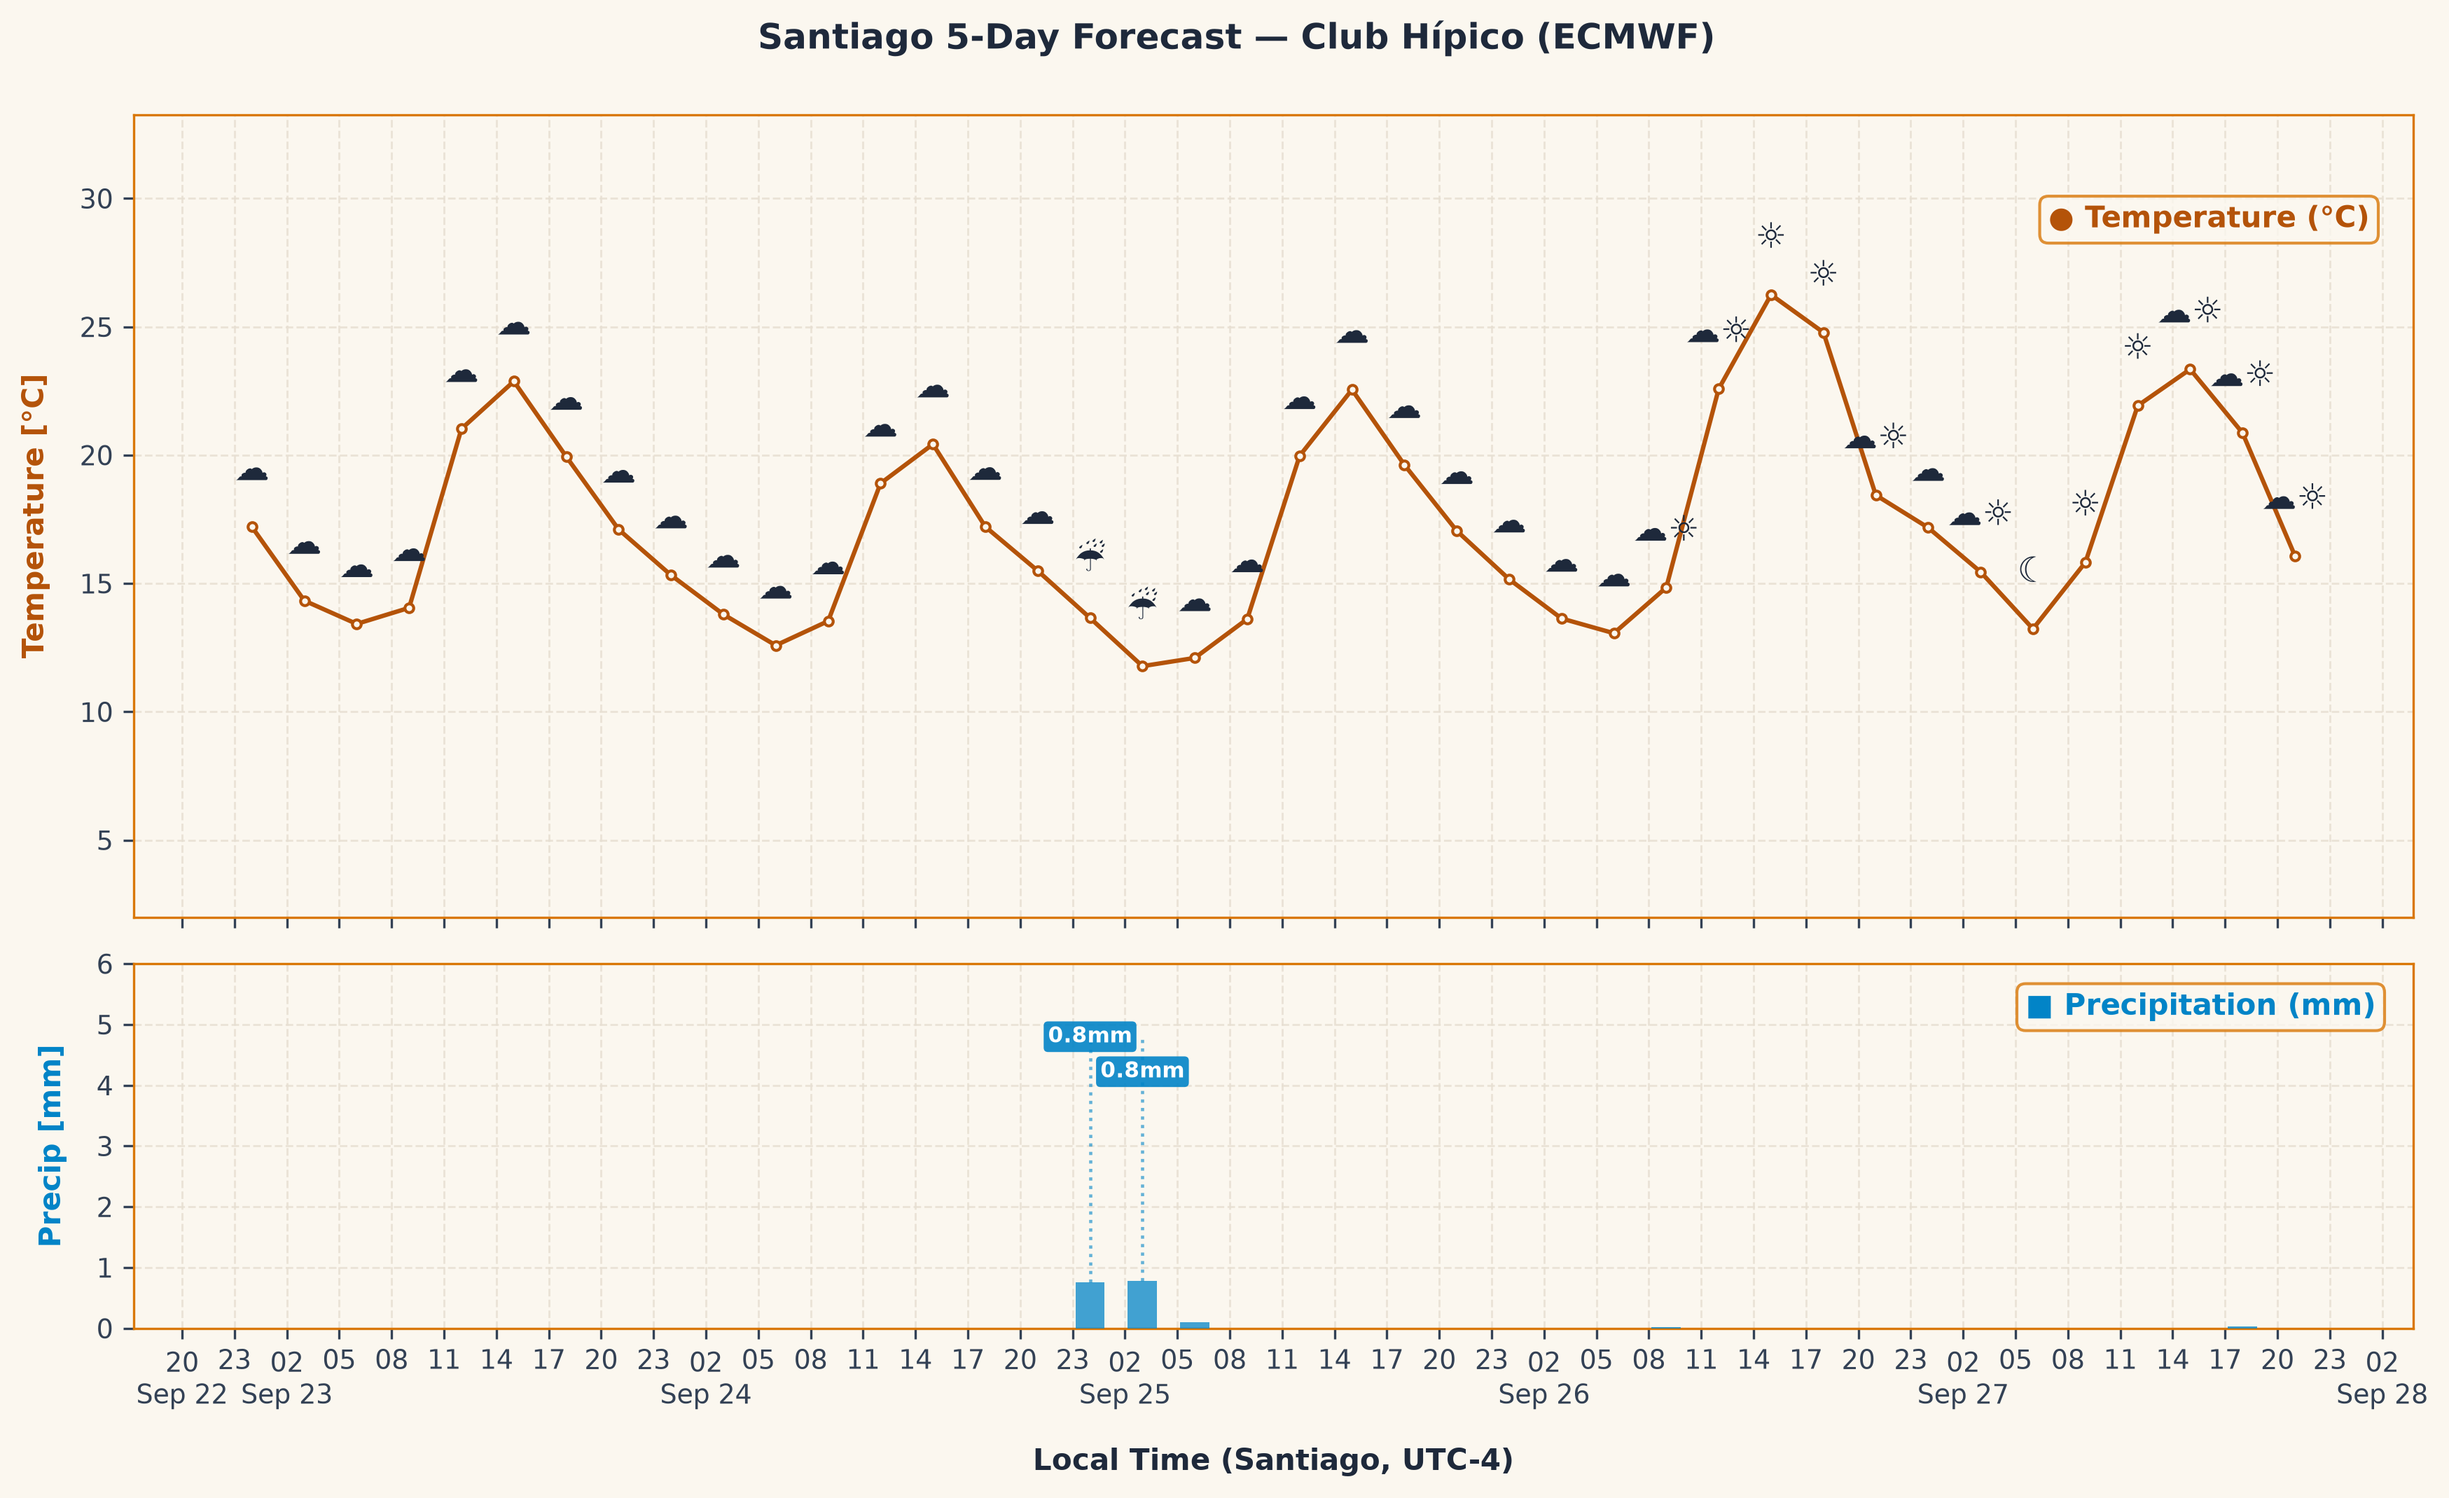
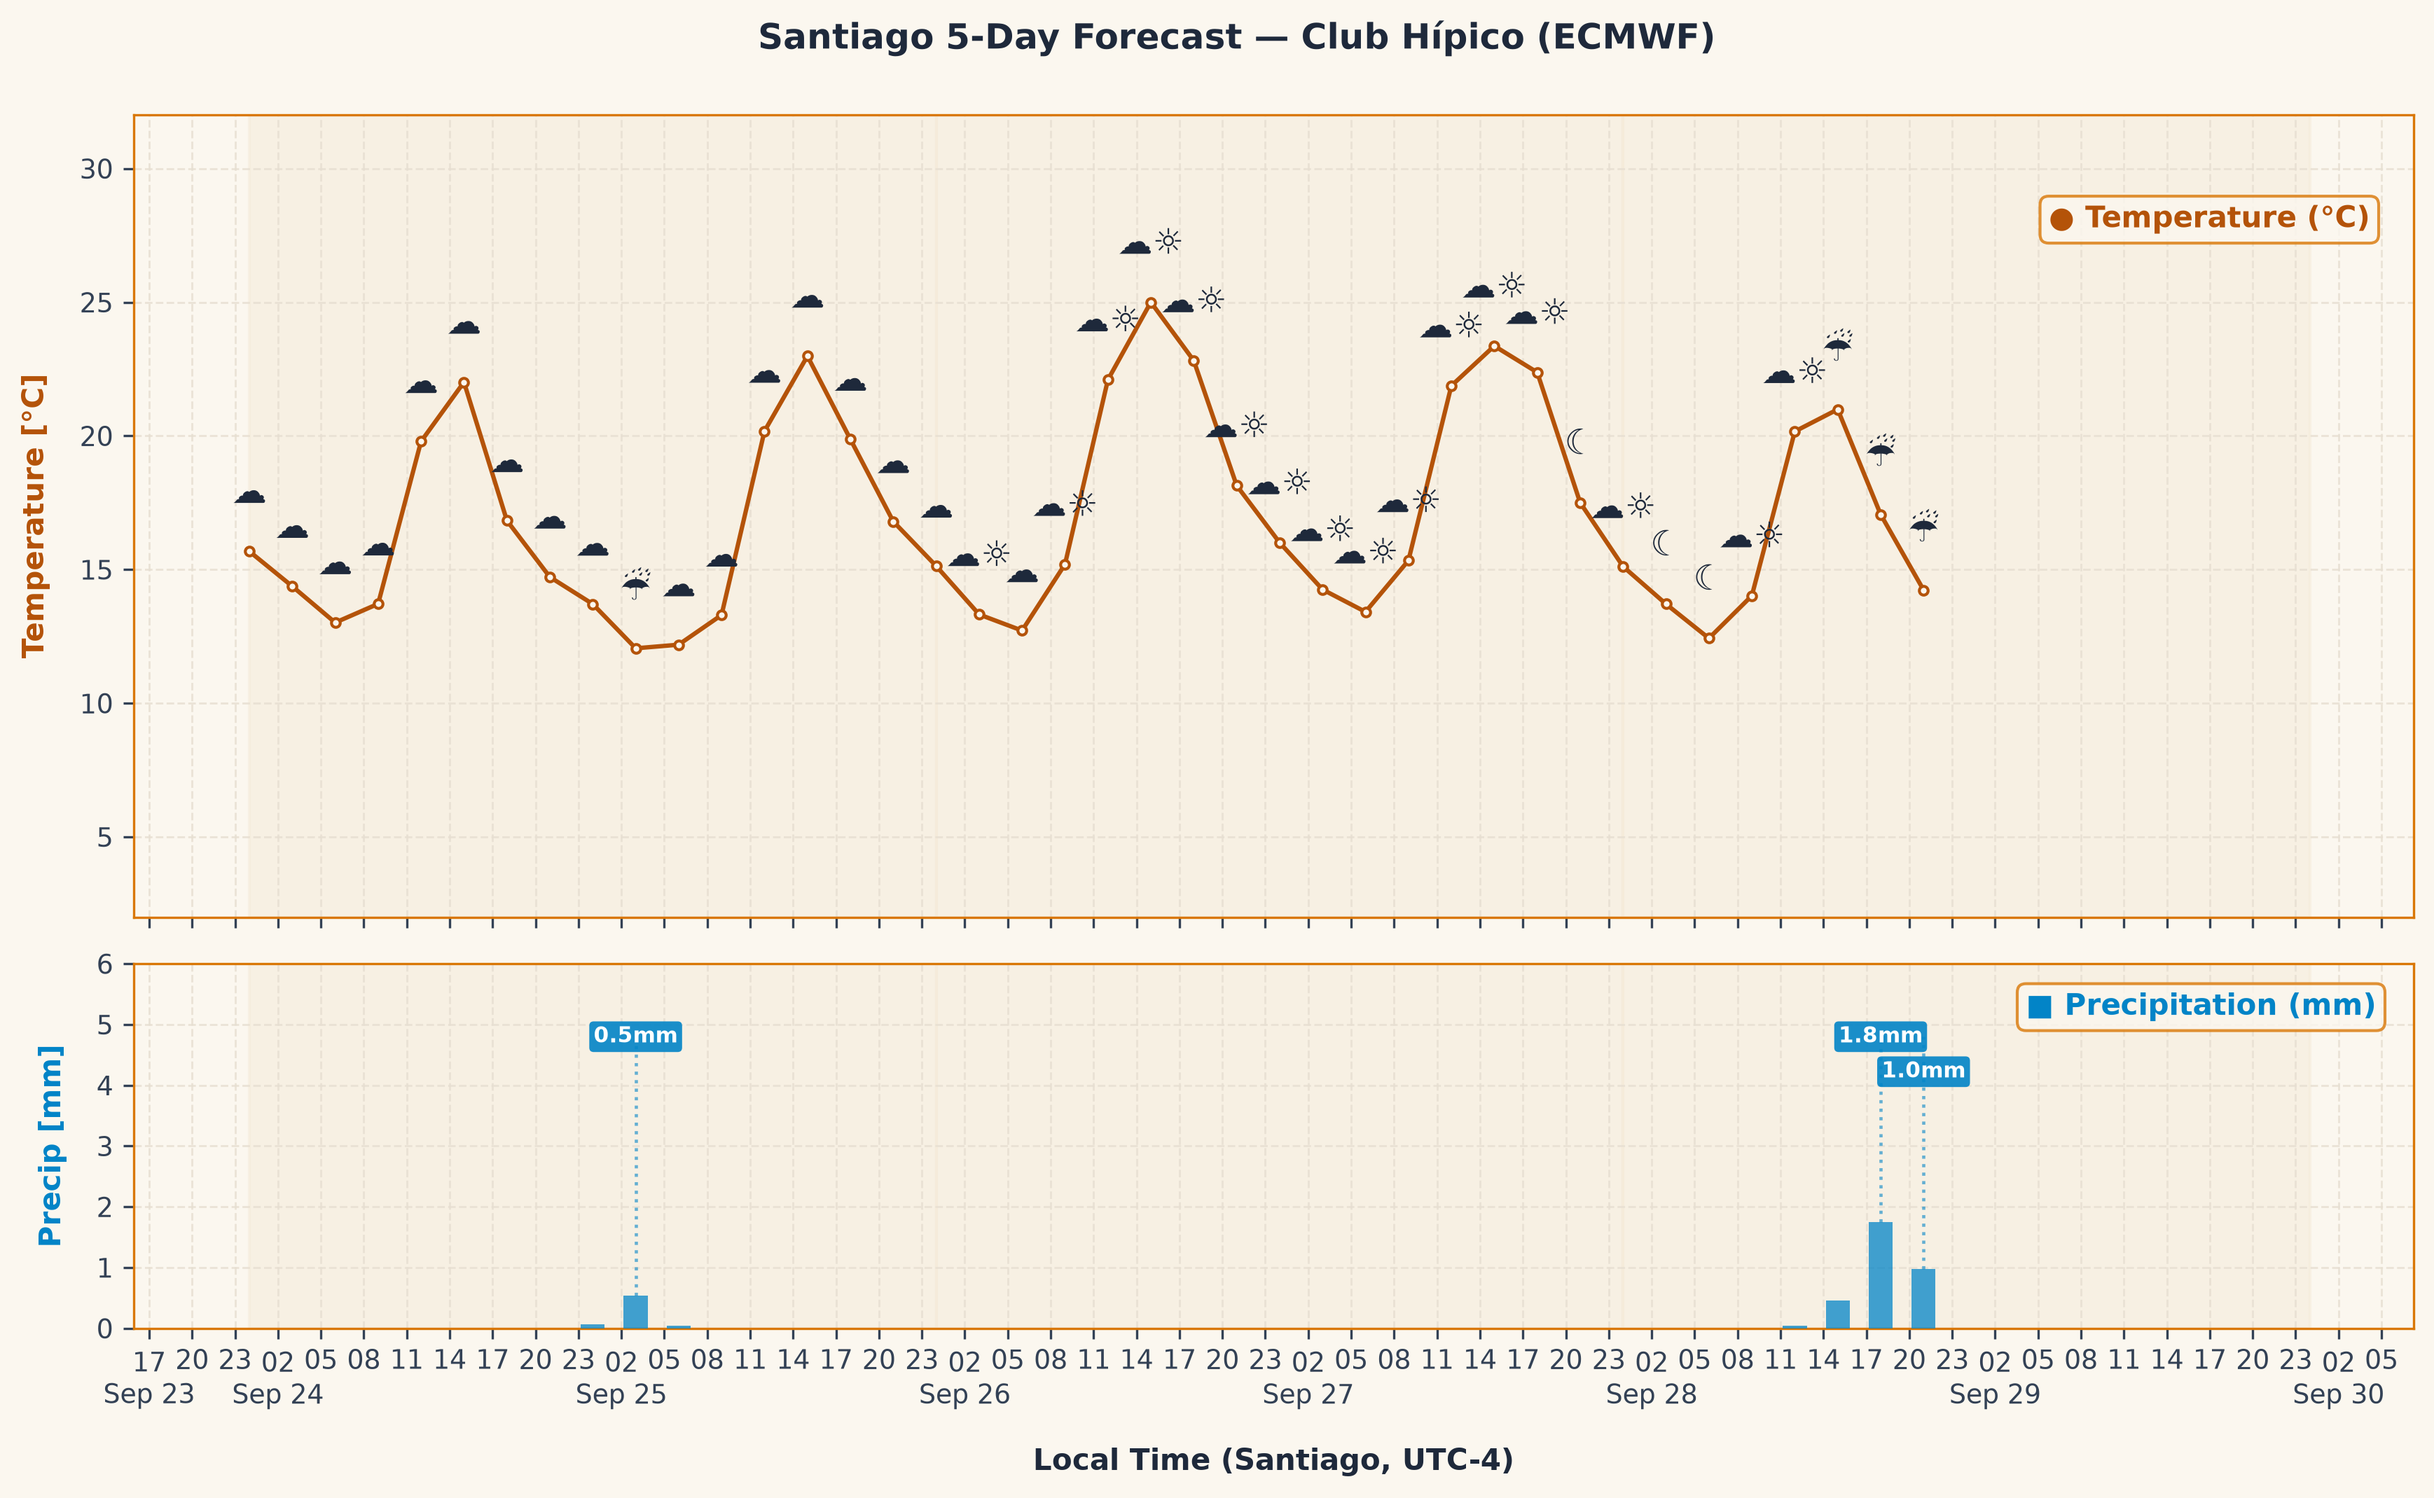
Automated update weather widgets and plots from santiago_forecast

diff --git a/assets/scripts/santiago_weather_interactive.html b/assets/scripts/santiago_weather_interactive.html
@@ -47,7 +47,7 @@
     </div>
 
     <script>
-        const weatherData = [{"time_iso": "2026-09-23 00:00:00", "hour_str": "00", "date_str": "Sep 23", "temp": 17.2, "precip": 0.0, "icon": "\u2601\ufe0f"}, {"time_iso": "2026-09-23 03:00:00", "hour_str": "03", "date_str": "Sep 23", "temp": 14.3, "precip": 0.0, "icon": "\u2601\ufe0f"}, {"time_iso": "2026-09-23 06:00:00", "hour_str": "06", "date_str": "Sep 23", "temp": 13.4, "precip": 0.0, "icon": "\u2601\ufe0f"}, {"time_iso": "2026-09-23 09:00:00", "hour_str": "09", "date_str": "Sep 23", "temp": 14.1, "precip": 0.0, "icon": "\u2601\ufe0f"}, {"time_iso": "2026-09-23 12:00:00", "hour_str": "12", "date_str": "Sep 23", "temp": 21.0, "precip": 0.0, "icon": "\u2601\ufe0f"}, {"time_iso": "2026-09-23 15:00:00", "hour_str": "15", "date_str": "Sep 23", "temp": 22.9, "precip": 0.0, "icon": "\u2601\ufe0f"}, {"time_iso": "2026-09-23 18:00:00", "hour_str": "18", "date_str": "Sep 23", "temp": 19.9, "precip": 0.0, "icon": "\u2601\ufe0f"}, {"time_iso": "2026-09-23 21:00:00", "hour_str": "21", "date_str": "Sep 23", "temp": 17.1, "precip": 0.0, "icon": "\u2601\ufe0f"}, {"time_iso": "2026-09-24 00:00:00", "hour_str": "00", "date_str": "Sep 24", "temp": 15.3, "precip": 0.0, "icon": "\u2601\ufe0f"}, {"time_iso": "2026-09-24 03:00:00", "hour_str": "03", "date_str": "Sep 24", "temp": 13.8, "precip": 0.0, "icon": "\u2601\ufe0f"}, {"time_iso": "2026-09-24 06:00:00", "hour_str": "06", "date_str": "Sep 24", "temp": 12.6, "precip": 0.0, "icon": "\u2601\ufe0f"}, {"time_iso": "2026-09-24 09:00:00", "hour_str": "09", "date_str": "Sep 24", "temp": 13.5, "precip": 0.0, "icon": "\u2601\ufe0f"}, {"time_iso": "2026-09-24 12:00:00", "hour_str": "12", "date_str": "Sep 24", "temp": 18.9, "precip": 0.0, "icon": "\u2601\ufe0f"}, {"time_iso": "2026-09-24 15:00:00", "hour_str": "15", "date_str": "Sep 24", "temp": 20.4, "precip": 0.0, "icon": "\u2601\ufe0f"}, {"time_iso": "2026-09-24 18:00:00", "hour_str": "18", "date_str": "Sep 24", "temp": 17.2, "precip": 0.0, "icon": "\u2601\ufe0f"}, {"time_iso": "2026-09-24 21:00:00", "hour_str": "21", "date_str": "Sep 24", "temp": 15.5, "precip": 0.0, "icon": "\u2601\ufe0f"}, {"time_iso": "2026-09-25 00:00:00", "hour_str": "00", "date_str": "Sep 25", "temp": 13.7, "precip": 0.76, "icon": "\ud83c\udf27\ufe0f"}, {"time_iso": "2026-09-25 03:00:00", "hour_str": "03", "date_str": "Sep 25", "temp": 11.8, "precip": 0.78, "icon": "\ud83c\udf27\ufe0f"}, {"time_iso": "2026-09-25 06:00:00", "hour_str": "06", "date_str": "Sep 25", "temp": 12.1, "precip": 0.11, "icon": "\u2601\ufe0f"}, {"time_iso": "2026-09-25 09:00:00", "hour_str": "09", "date_str": "Sep 25", "temp": 13.6, "precip": 0.0, "icon": "\u2601\ufe0f"}, {"time_iso": "2026-09-25 12:00:00", "hour_str": "12", "date_str": "Sep 25", "temp": 20.0, "precip": 0.0, "icon": "\u2601\ufe0f"}, {"time_iso": "2026-09-25 15:00:00", "hour_str": "15", "date_str": "Sep 25", "temp": 22.6, "precip": 0.0, "icon": "\u2601\ufe0f"}, {"time_iso": "2026-09-25 18:00:00", "hour_str": "18", "date_str": "Sep 25", "temp": 19.6, "precip": 0.0, "icon": "\u2601\ufe0f"}, {"time_iso": "2026-09-25 21:00:00", "hour_str": "21", "date_str": "Sep 25", "temp": 17.1, "precip": 0.0, "icon": "\u2601\ufe0f"}, {"time_iso": "2026-09-26 00:00:00", "hour_str": "00", "date_str": "Sep 26", "temp": 15.2, "precip": 0.0, "icon": "\u2601\ufe0f"}, {"time_iso": "2026-09-26 03:00:00", "hour_str": "03", "date_str": "Sep 26", "temp": 13.6, "precip": 0.0, "icon": "\u2601\ufe0f"}, {"time_iso": "2026-09-26 06:00:00", "hour_str": "06", "date_str": "Sep 26", "temp": 13.1, "precip": 0.0, "icon": "\u2601\ufe0f"}, {"time_iso": "2026-09-26 09:00:00", "hour_str": "09", "date_str": "Sep 26", "temp": 14.8, "precip": 0.02, "icon": "\u26c5"}, {"time_iso": "2026-09-26 12:00:00", "hour_str": "12", "date_str": "Sep 26", "temp": 22.6, "precip": 0.0, "icon": "\u26c5"}, {"time_iso": "2026-09-26 15:00:00", "hour_str": "15", "date_str": "Sep 26", "temp": 26.3, "precip": 0.0, "icon": "\u2600\ufe0f"}, {"time_iso": "2026-09-26 18:00:00", "hour_str": "18", "date_str": "Sep 26", "temp": 24.8, "precip": 0.0, "icon": "\u2600\ufe0f"}, {"time_iso": "2026-09-26 21:00:00", "hour_str": "21", "date_str": "Sep 26", "temp": 18.4, "precip": 0.0, "icon": "\u26c5"}, {"time_iso": "2026-09-27 00:00:00", "hour_str": "00", "date_str": "Sep 27", "temp": 17.2, "precip": 0.0, "icon": "\u2601\ufe0f"}, {"time_iso": "2026-09-27 03:00:00", "hour_str": "03", "date_str": "Sep 27", "temp": 15.5, "precip": 0.0, "icon": "\u26c5"}, {"time_iso": "2026-09-27 06:00:00", "hour_str": "06", "date_str": "Sep 27", "temp": 13.2, "precip": 0.0, "icon": "\ud83c\udf19"}, {"time_iso": "2026-09-27 09:00:00", "hour_str": "09", "date_str": "Sep 27", "temp": 15.8, "precip": 0.0, "icon": "\u2600\ufe0f"}, {"time_iso": "2026-09-27 12:00:00", "hour_str": "12", "date_str": "Sep 27", "temp": 21.9, "precip": 0.0, "icon": "\u2600\ufe0f"}, {"time_iso": "2026-09-27 15:00:00", "hour_str": "15", "date_str": "Sep 27", "temp": 23.3, "precip": 0.0, "icon": "\u26c5"}, {"time_iso": "2026-09-27 18:00:00", "hour_str": "18", "date_str": "Sep 27", "temp": 20.9, "precip": 0.03, "icon": "\u26c5"}, {"time_iso": "2026-09-27 21:00:00", "hour_str": "21", "date_str": "Sep 27", "temp": 16.1, "precip": 0.0, "icon": "\u26c5"}];
+        const weatherData = [{"time_iso": "2026-09-24 00:00:00", "hour_str": "00", "date_str": "Sep 24", "temp": 15.7, "precip": 0.0, "icon": "\u2601\ufe0f"}, {"time_iso": "2026-09-24 03:00:00", "hour_str": "03", "date_str": "Sep 24", "temp": 14.4, "precip": 0.0, "icon": "\u2601\ufe0f"}, {"time_iso": "2026-09-24 06:00:00", "hour_str": "06", "date_str": "Sep 24", "temp": 13.0, "precip": 0.0, "icon": "\u2601\ufe0f"}, {"time_iso": "2026-09-24 09:00:00", "hour_str": "09", "date_str": "Sep 24", "temp": 13.7, "precip": 0.0, "icon": "\u2601\ufe0f"}, {"time_iso": "2026-09-24 12:00:00", "hour_str": "12", "date_str": "Sep 24", "temp": 19.8, "precip": 0.0, "icon": "\u2601\ufe0f"}, {"time_iso": "2026-09-24 15:00:00", "hour_str": "15", "date_str": "Sep 24", "temp": 22.0, "precip": 0.0, "icon": "\u2601\ufe0f"}, {"time_iso": "2026-09-24 18:00:00", "hour_str": "18", "date_str": "Sep 24", "temp": 16.8, "precip": 0.0, "icon": "\u2601\ufe0f"}, {"time_iso": "2026-09-24 21:00:00", "hour_str": "21", "date_str": "Sep 24", "temp": 14.7, "precip": 0.0, "icon": "\u2601\ufe0f"}, {"time_iso": "2026-09-25 00:00:00", "hour_str": "00", "date_str": "Sep 25", "temp": 13.7, "precip": 0.07, "icon": "\u2601\ufe0f"}, {"time_iso": "2026-09-25 03:00:00", "hour_str": "03", "date_str": "Sep 25", "temp": 12.1, "precip": 0.54, "icon": "\ud83c\udf27\ufe0f"}, {"time_iso": "2026-09-25 06:00:00", "hour_str": "06", "date_str": "Sep 25", "temp": 12.2, "precip": 0.05, "icon": "\u2601\ufe0f"}, {"time_iso": "2026-09-25 09:00:00", "hour_str": "09", "date_str": "Sep 25", "temp": 13.3, "precip": 0.0, "icon": "\u2601\ufe0f"}, {"time_iso": "2026-09-25 12:00:00", "hour_str": "12", "date_str": "Sep 25", "temp": 20.2, "precip": 0.0, "icon": "\u2601\ufe0f"}, {"time_iso": "2026-09-25 15:00:00", "hour_str": "15", "date_str": "Sep 25", "temp": 23.0, "precip": 0.0, "icon": "\u2601\ufe0f"}, {"time_iso": "2026-09-25 18:00:00", "hour_str": "18", "date_str": "Sep 25", "temp": 19.9, "precip": 0.0, "icon": "\u2601\ufe0f"}, {"time_iso": "2026-09-25 21:00:00", "hour_str": "21", "date_str": "Sep 25", "temp": 16.8, "precip": 0.0, "icon": "\u2601\ufe0f"}, {"time_iso": "2026-09-26 00:00:00", "hour_str": "00", "date_str": "Sep 26", "temp": 15.1, "precip": 0.0, "icon": "\u2601\ufe0f"}, {"time_iso": "2026-09-26 03:00:00", "hour_str": "03", "date_str": "Sep 26", "temp": 13.3, "precip": 0.0, "icon": "\u26c5"}, {"time_iso": "2026-09-26 06:00:00", "hour_str": "06", "date_str": "Sep 26", "temp": 12.7, "precip": 0.0, "icon": "\u2601\ufe0f"}, {"time_iso": "2026-09-26 09:00:00", "hour_str": "09", "date_str": "Sep 26", "temp": 15.2, "precip": 0.0, "icon": "\u26c5"}, {"time_iso": "2026-09-26 12:00:00", "hour_str": "12", "date_str": "Sep 26", "temp": 22.1, "precip": 0.0, "icon": "\u26c5"}, {"time_iso": "2026-09-26 15:00:00", "hour_str": "15", "date_str": "Sep 26", "temp": 25.0, "precip": 0.0, "icon": "\u26c5"}, {"time_iso": "2026-09-26 18:00:00", "hour_str": "18", "date_str": "Sep 26", "temp": 22.8, "precip": 0.0, "icon": "\u26c5"}, {"time_iso": "2026-09-26 21:00:00", "hour_str": "21", "date_str": "Sep 26", "temp": 18.1, "precip": 0.0, "icon": "\u26c5"}, {"time_iso": "2026-09-27 00:00:00", "hour_str": "00", "date_str": "Sep 27", "temp": 16.0, "precip": 0.0, "icon": "\u26c5"}, {"time_iso": "2026-09-27 03:00:00", "hour_str": "03", "date_str": "Sep 27", "temp": 14.3, "precip": 0.0, "icon": "\u26c5"}, {"time_iso": "2026-09-27 06:00:00", "hour_str": "06", "date_str": "Sep 27", "temp": 13.4, "precip": 0.0, "icon": "\u26c5"}, {"time_iso": "2026-09-27 09:00:00", "hour_str": "09", "date_str": "Sep 27", "temp": 15.3, "precip": 0.0, "icon": "\u26c5"}, {"time_iso": "2026-09-27 12:00:00", "hour_str": "12", "date_str": "Sep 27", "temp": 21.9, "precip": 0.0, "icon": "\u26c5"}, {"time_iso": "2026-09-27 15:00:00", "hour_str": "15", "date_str": "Sep 27", "temp": 23.4, "precip": 0.0, "icon": "\u26c5"}, {"time_iso": "2026-09-27 18:00:00", "hour_str": "18", "date_str": "Sep 27", "temp": 22.4, "precip": 0.0, "icon": "\u26c5"}, {"time_iso": "2026-09-27 21:00:00", "hour_str": "21", "date_str": "Sep 27", "temp": 17.5, "precip": 0.0, "icon": "\ud83c\udf19"}, {"time_iso": "2026-09-28 00:00:00", "hour_str": "00", "date_str": "Sep 28", "temp": 15.1, "precip": 0.0, "icon": "\u26c5"}, {"time_iso": "2026-09-28 03:00:00", "hour_str": "03", "date_str": "Sep 28", "temp": 13.7, "precip": 0.0, "icon": "\ud83c\udf19"}, {"time_iso": "2026-09-28 06:00:00", "hour_str": "06", "date_str": "Sep 28", "temp": 12.4, "precip": 0.0, "icon": "\ud83c\udf19"}, {"time_iso": "2026-09-28 09:00:00", "hour_str": "09", "date_str": "Sep 28", "temp": 14.0, "precip": 0.0, "icon": "\u26c5"}, {"time_iso": "2026-09-28 12:00:00", "hour_str": "12", "date_str": "Sep 28", "temp": 20.2, "precip": 0.05, "icon": "\u26c5"}, {"time_iso": "2026-09-28 15:00:00", "hour_str": "15", "date_str": "Sep 28", "temp": 21.0, "precip": 0.46, "icon": "\ud83c\udf27\ufe0f"}, {"time_iso": "2026-09-28 18:00:00", "hour_str": "18", "date_str": "Sep 28", "temp": 17.1, "precip": 1.75, "icon": "\ud83c\udf27\ufe0f"}, {"time_iso": "2026-09-28 21:00:00", "hour_str": "21", "date_str": "Sep 28", "temp": 14.2, "precip": 0.98, "icon": "\ud83c\udf27\ufe0f"}];
 
         const backgroundDaysPlugin = {
             id: 'backgroundDays',
